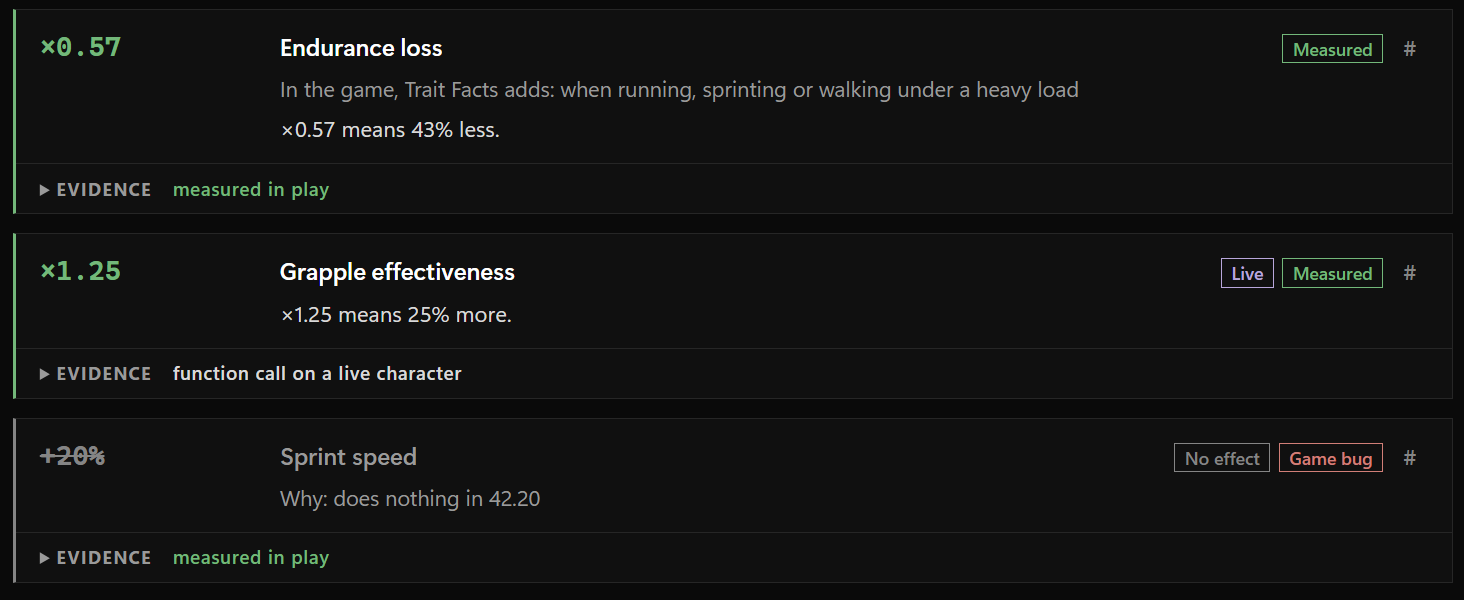
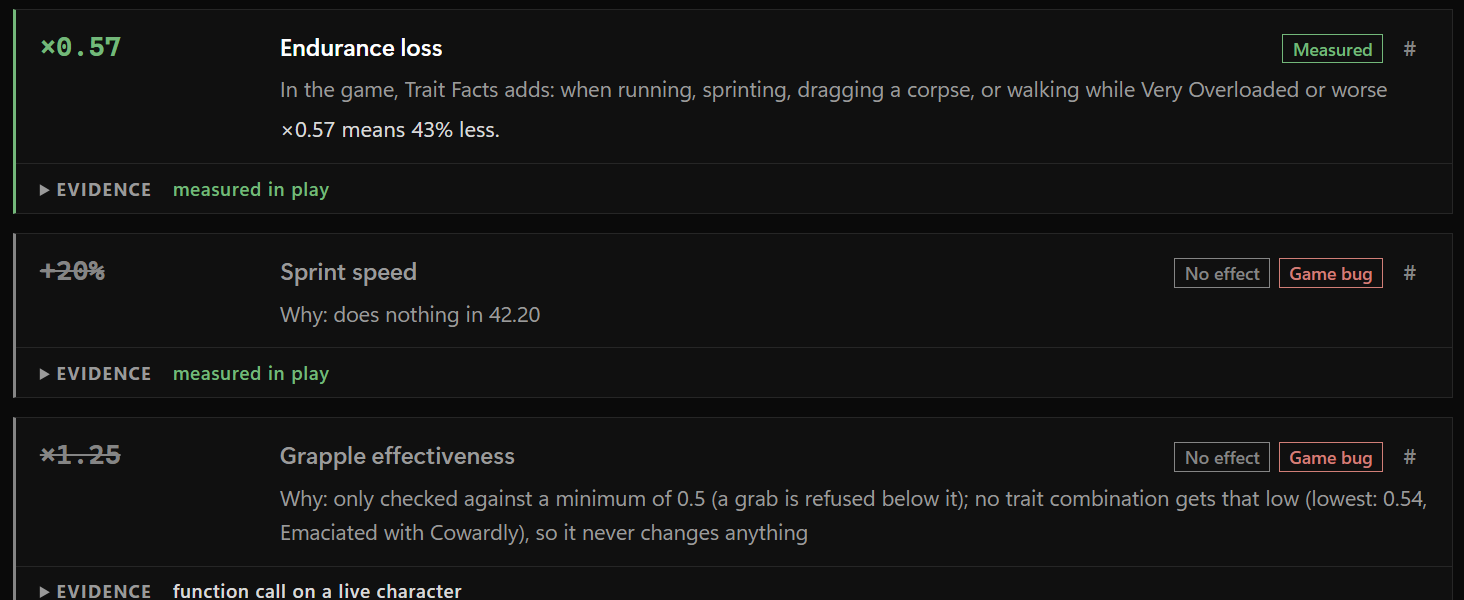
Workshop images and README: numbers after the facts sweep
Image 02 lists Keen Hearing's hearing radius instead of Ax-pert's
chopping speed, 163 of 204 values measured and 24 without effect;
image 07 says 19 game bugs. README code-only examples are tree
scratches, being spotted and hit chance.

diff --git a/README.md b/README.md
@@ -20,8 +20,8 @@ Every value carries one of three sources, and the mod tells you which:
 | Source | How | Example |
 | --- | --- | --- |
 | Live | read from the game while it runs | exclusions, granted traits, recipes, foraging, starting levels |
-| Measured | measured in the running game with a test mod, trait on against trait off | walking speed, panic, endurance, sleep |
-| Code | read from the game code of Build 42.20.4, stamped with that version | knockback, tree scratches, illness |
+| Measured | measured in the running game with a test mod, trait on against trait off | walking speed, panic, endurance, sleep, knockback, colds |
+| Code | read from the game code of Build 42.20.4, stamped with that version | tree scratches, being spotted, hit chance |
 
 If the game runs a different build than the stored values, the overview warns.
 If a live measurement disagrees with a stored value, the measurement wins and the
